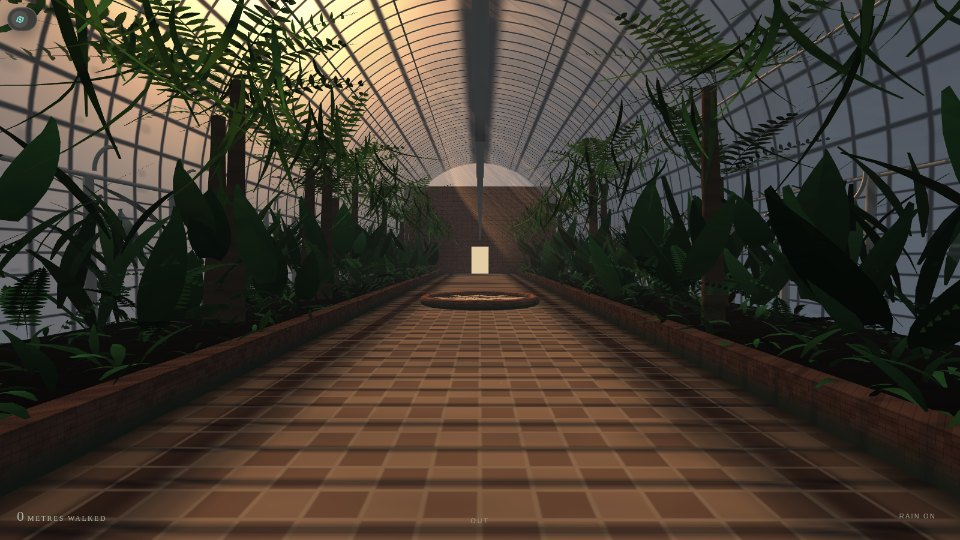
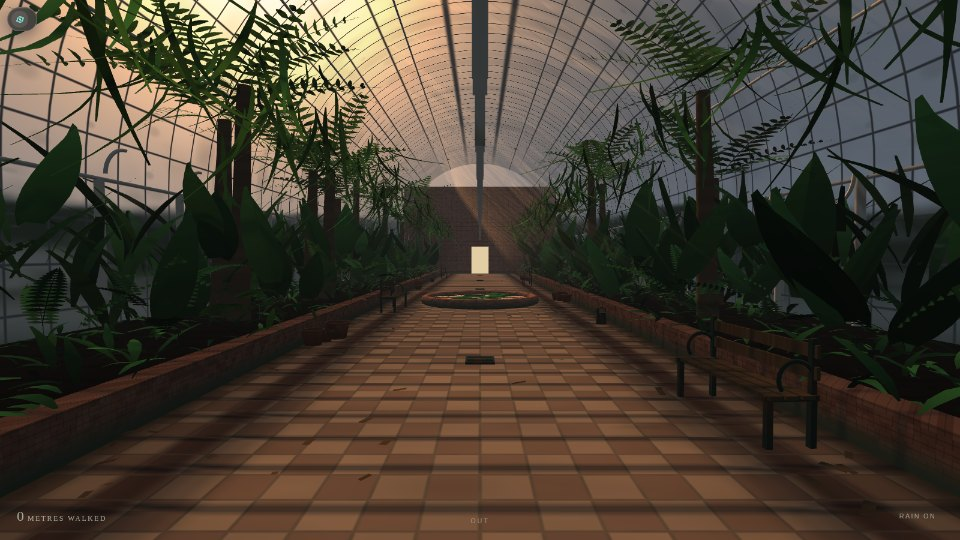
Sweep the Conservatory less often
Litter, drains, slimmer glazing bars, and three quarters of the frame back.

THE PATH HAD NOTHING ON IT. Sixty feet of tile in a room full of plants that
drop things, swept to a shine — the last thing left in here that only a
computer would produce. There is leaf litter now, and it is banked against
the kerbs rather than scattered evenly, because that is where it blows and
the middle is where feet go. Even scattering would have been the same
number of leaves and none of the effect.

There are also drains: a cast grating in the floor every eight metres. A
glasshouse is hosed twice a day and the water has to go somewhere, so two
bars of iron in the tiles turn the floor from a texture into something that
was plumbed, which is a surprising amount of what "a real building" means.

The glazing bars were three times too wide. At smoothstep(0.40, …) the soft
edge alone was 15cm, so standing near a wall put you behind prison bars
rather than behind a window.

And the frame rate: roofTransmissionSoft took five full samples of
roofTransmission, which ends in an fbm — so every surface in the building
evaluated twenty octaves of noise per pixel to soften a pattern of hard
lines, and the foliage, drawn many layers deep, paid it several times for
the same pixel. Only the bars need blurring; grime is a broad field over
metres and a two-centimetre blur does nothing you could see. Sampling it
once outside the taps took the realm from 2.3 to 4 fps under the software
[…]

diff --git a/src/conservatory/shaders.ts b/src/conservatory/shaders.ts
@@ -97,6 +97,13 @@ float fbm(vec2 p){
   return s;
 }
 
+/** Two octaves. For fields that are broad by nature — dapple, damp, wear —
+ *  where the upper two octaves cost the same as the lower two and land
+ *  under a pixel anyway. */
+float fbm2(vec2 p){
+  return vnoise(p) * 0.5 + vnoise(p * 2.03) * 0.25;
+}
+
 /* ------------------------------------------------------------------ *
  * 1. The roof, as a function
  *
@@ -110,14 +117,19 @@ float fbm(vec2 p){
  * beneath it. Getting those out of step is the single most obvious way a
  * scene like this stops looking photographed.
  * ------------------------------------------------------------------ */
-float roofTransmission(vec2 roofUV){
-  // Iron ribs: hard, narrow, opaque.
+/** The opaque part: iron ribs one way, thinner glazing bars the other. */
+float roofBars(vec2 roofUV){
   float rib = smoothstep(0.030, 0.075, abs(fract(roofUV.x * 8.0) - 0.5));
-  // Glazing bars the other way, thinner and further apart.
   float bar = smoothstep(0.018, 0.055, abs(fract(roofUV.y * 3.0) - 0.5));
-  // Grime and algae in the corners of the panes.
-  float grime = 0.62 + 0.38 * fbm(roofUV * 6.0 + 11.0);
-  return rib * bar * grime;
+  return rib * bar;
+}
+
+/** Grime and algae in the corners of the panes. Broad, and separate from
+ *  the bars for a reason the blurred version below depends on. */
+float roofGrime(vec2 roofUV){ return 0.62 + 0.38 * fbm(roofUV * 6.0 + 11.0); }
+
+float roofTransmission(vec2 roofUV){
+  return roofBars(roofUV) * roofGrime(roofUV);
 }
 
 /**
@@ -140,12 +152,21 @@ float roofTransmission(vec2 roofUV){
  * because what is being blurred is already a smooth function.
  */
 float roofTransmissionSoft(vec2 roofUV, vec2 blur){
-  float s = roofTransmission(roofUV) * 0.30;
-  s += roofTransmission(roofUV + blur * 0.55) * 0.20;
-  s += roofTransmission(roofUV - blur * 0.55) * 0.20;
-  s += roofTransmission(roofUV + blur) * 0.15;
-  s += roofTransmission(roofUV - blur) * 0.15;
-  return s;
+  /* ONLY THE BARS ARE BLURRED. The first version took five full samples of
+     roofTransmission, and roofTransmission ends in an fbm — so every
+     surface in the building was evaluating twenty octaves of noise per
+     pixel to soften a pattern of hard lines. The foliage is drawn many
+     layers deep, so it paid that several times over for the same pixel,
+     and it was three quarters of the frame.
+
+     Grime is a broad field over metres; blurring it by a couple of
+     centimetres does nothing you could see. Sample it once, outside. */
+  float s = roofBars(roofUV) * 0.30;
+  s += roofBars(roofUV + blur * 0.55) * 0.20;
+  s += roofBars(roofUV - blur * 0.55) * 0.20;
+  s += roofBars(roofUV + blur) * 0.15;
+  s += roofBars(roofUV - blur) * 0.15;
+  return s * roofGrime(roofUV);
 }
 
 /* ------------------------------------------------------------------ *
@@ -177,7 +198,7 @@ float canopyShade(vec3 worldPos){
   float open = smoothstep(4.6, 1.1, ax);
   // Dapple. Drifts with the gust so the shade breathes when the house does.
   vec2 dp = worldPos.xz * 0.85 + vec2(uGust * 0.35, uTime * 0.02);
-  float dapple = 0.55 + 0.45 * fbm(dp);
+  float dapple = 0.55 + 0.60 * fbm2(dp);
   // Under the beds themselves almost nothing gets through.
   /* 0.20 under the beds put them at pure black — every leaf below waist
      height lost its shape entirely, and a jungle floor is dim, not absent.

diff --git a/src/conservatory/furniture.ts b/src/conservatory/furniture.ts
@@ -363,6 +363,24 @@ export function buildFurniture(uniforms: Record<string, THREE.IUniform>): Furnit
     }
   }
 
+  /* DRAINS. A glasshouse floor is watered with a hose twice a day and has
+     to take it somewhere, so it falls to a channel down the middle with
+     cast gratings in it at intervals. Two bars of iron in a tiled floor,
+     and the floor stops being a texture and becomes a thing that was
+     PLUMBED — which is a surprising amount of what "real building" means. */
+  for (let i = 0; i < 6; i++) {
+    const z = -HALF + 4.5 + i * 8.2;
+    const frame = new THREE.BoxGeometry(0.46, 0.035, 0.46);
+    frame.translate(0, 0.018, z);
+    cast.push(frame);
+    // Slots, sunk just below the frame so they read as holes.
+    for (let k = 0; k < 5; k++) {
+      const bar = new THREE.BoxGeometry(0.40, 0.03, 0.032);
+      bar.translate(0, 0.030, z - 0.16 + k * 0.08);
+      cast.push(bar);
+    }
+  }
+
   // Two watering cans, left where somebody was last working.
   wateringCan(-3.02, -HALF + 14.2, 0.9, cast);
   wateringCan(3.0, -HALF + 33.0, -2.1, cast);
@@ -381,6 +399,35 @@ export function buildFurniture(uniforms: Record<string, THREE.IUniform>): Furnit
     tag.rotateY(r() * 0.9 - 0.45);
     tag.translate(x, 0.74, z);
     cast.push(tag);
+  }
+
+  /* LEAF LITTER. Sixty feet of path with nothing on it is the last thing
+     in here that only a computer would produce: a room full of plants that
+     drop things, swept to a shine. Real litter is not scattered evenly —
+     it is blown to the EDGES, banked against the kerbs and in the lee of
+     anything standing on the floor, and thin in the middle where feet go.
+     Placing it that way costs nothing and is the whole difference between
+     "leaves on the floor" and "nobody has swept since Tuesday". */
+  for (let i = 0; i < 320; i++) {
+    const side = r() < 0.5 ? -1 : 1;
+    // Biased hard towards the kerb: a squared random lands most of them in
+    // the outer third of the path.
+    const t = r() * r();
+    const x = side * (3.30 - t * 2.9);
+    const z = (r() - 0.5) * (NAVE.length - 4);
+    const len = 0.085 + r() * 0.11;
+    const leaf = new THREE.PlaneGeometry(len * 0.42, len, 1, 2);
+    const pos = leaf.attributes.position as THREE.BufferAttribute;
+    for (let v = 0; v < pos.count; v++) {
+      // Curled, and lying at a slight angle — a dry leaf never lies flat.
+      const yy = pos.getY(v);
+      pos.setZ(v, Math.abs(pos.getX(v)) * 0.55 + (yy / len) * 0.02);
+    }
+    leaf.computeVertexNormals();
+    leaf.rotateX(-Math.PI / 2 + (r() - 0.5) * 0.35);
+    leaf.rotateY(r() * Math.PI * 2);
+    leaf.translate(x, 0.004 + r() * 0.008, z);
+    wood.push(leaf);
   }
 
   for (const [parts, mat] of [

diff --git a/src/conservatory/structure.ts b/src/conservatory/structure.ts
@@ -164,8 +164,12 @@ export function glassMaterial(uniforms: Record<string, THREE.IUniform>) {
         float alongAxis = abs(n.z) > 0.7 ? vWorld.x : vWorld.z;
         vec2 pane = vec2(alongAxis * 1.30, vWorld.y * 1.30);
         vec2 pf = abs(fract(pane) - 0.5);
-        float bars = max(smoothstep(0.40, 0.475, pf.x),
-                         smoothstep(0.40, 0.478, pf.y));
+        /* Slimmer than they were. At 0.40 the soft edge alone was 15cm
+           wide, so standing three metres off a wall put you behind what
+           looked like prison bars — a real glazing bar is a couple of
+           centimetres of iron with a putty line either side. */
+        float bars = max(smoothstep(0.452, 0.492, pf.x),
+                         smoothstep(0.455, 0.494, pf.y));
         /* Fade the grid out once the panes are smaller than a pixel. Down
            the length of a 48m vault they get there quickly, and an unfaded
            grid at that scale is not a roof, it is a moiré — the same thing

diff --git a/src/worlds/changes.ts b/src/worlds/changes.ts
@@ -97,6 +97,8 @@ export const WORLD_CHANGES: Record<string, WorldChange[]> = {
     { sha: "cdcbd13", iso: "2026-07-12T12:49:55+00:00", subject: "🧪 Agent Lab — hatch your own companion (chunk 1)" },
   ],
   "conservatory": [
+    { sha: "f16d867", iso: "2026-08-18T23:18:07+00:00", subject: "Sweep the Conservatory less often" },
+    { sha: "2b13d31", iso: "2026-08-18T23:01:23+00:00", subject: "Furnish the Conservatory, and let three sparrows in" },
     { sha: "8fa0918", iso: "2026-08-18T22:26:17+00:00", subject: "The Conservatory: forty-eight metres of glasshouse, and a walk" },
   ],
   "deep": [

diff --git a/src/worlds/updated.ts b/src/worlds/updated.ts
@@ -23,7 +23,7 @@ export const WORLD_UPDATED: Record<string, string> = {
   "coil": "2026-08-18T22:28:17+00:00",
   "coin": "2026-08-12T06:08:52+00:00",
   "companions": "2026-07-13T09:47:28+00:00",
-  "conservatory": "2026-08-18T22:26:17+00:00",
+  "conservatory": "2026-08-18T23:18:07+00:00",
   "deep": "2026-08-17T06:36:43+00:00",
   "drop-zero": "2026-08-17T08:14:47+00:00",
   "dunes": "2026-08-16T20:40:40+00:00",
